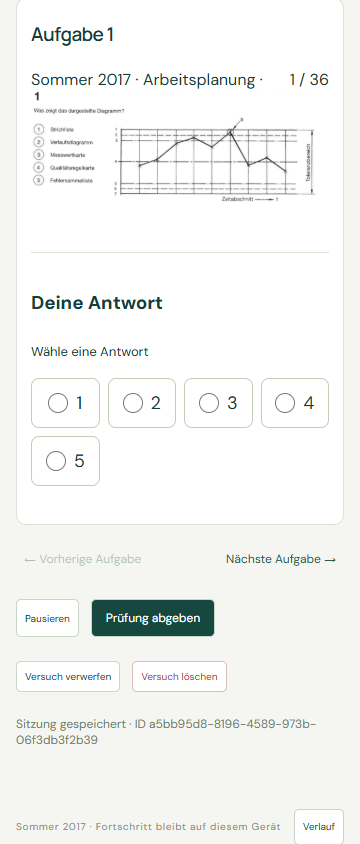
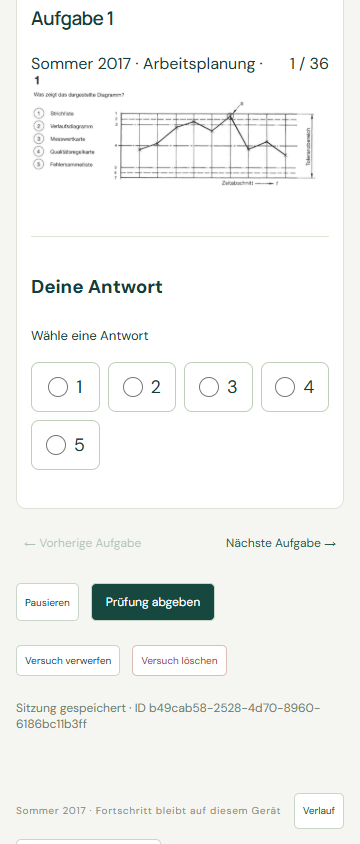
Wait for all selected exam sources before starting module tests

diff --git a/src/learning/LearningApp.tsx b/src/learning/LearningApp.tsx
@@ -106,7 +106,7 @@ export default function LearningApp(){
  const unfinished=filterHistory(testSessions).filter(s=>['active','paused'].includes(s.status)).slice(0,3);
  const recent=dashboardHistory(testSessions.filter(s=>isEligibleForAnalysis(s)),5-unfinished.length);
  const embeddedHistory=(type?:TestType,examId?:string)=><HistoryView key={(type??'all')+'/'+(examId??'all')} sessions={testSessions} repository={repository} disabled={busy} initialType={type} initialExam={examId} onOpen={openTest} onUpdated={updatedTest} onDeleted={deletedTest} onBusy={setLifecycleBusy}/>;
- const cards=(kind:'dashboard'|'learn'|'original'|'module',examId?:string)=>(kind==='module'?moduleCards:MODULES.filter(m=>!examId||m.examId===examId)).map(m=>{const b=bundles[moduleKey(m)];const p=moduleProgress(b?.exam.questions??[],attempts,sessions);const type=kind==='original'?'original':'module';const canStart=kind!=='module'||moduleSupportsSources(sourceExams,MODULES.filter(c=>c.slug===m.slug).map(c=>c.examId));const existing=testSessions.find(s=>s.module===m.slug&&(kind==='module'||s.exam===m.examId)&&s.test_type===type&&['active','paused'].includes(s.status));return <section className="exam-card" key={moduleKey(m)}><span className="eyebrow">{kind==='module'?sourceLabel(sourceExams,filteredModules.filter(c=>c.slug===m.slug).length,examLabel):examLabel(m.examId)}</span><h2>{m.title}</h2>{b?<>{kind==='dashboard'||kind==='learn'?<><p>{p.practiced}/{b.exam.questions.length} frei geübt · {p.attempts} Lernversuche</p><p className="hint">Letzte Lernaktivität: {p.lastActivity?new Date(p.lastActivity).toLocaleString('de-DE'):'Noch nicht begonnen'}</p>{kind==='dashboard'?<button className="primary" disabled={busy||!personalLoaded} onClick={()=>navigate('study',p.resumeNumber,m.slug,m.examId)}>Lernen fortsetzen · {m.title}</button>:<div className="part-cards">{moduleParts(m,b.exam.questions).map(part=><button key={part.id} disabled={busy||!personalLoaded} onClick={()=>navigate('study',part.questions[0].question_number,m.slug,m.examId)}><strong>{part.title}</strong><span>{part.questions.length} {part.label}</span><small>Frei auswählen und üben →</small></button>)}</div>}</>:<><p>{kind==='original'?`${b.exam.questions.length} Aufgaben in Originalreihenfolge · ${m.parts.map(p=>p.title).join(" + ")} · ${m.durationMinutes===null?'Prüfungszeit noch nicht bestätigt':m.durationMinutes+' Minuten'}`:`Neue gemischte Auswahl aus ${m.parts.map(p=>p.title).join(' und ')}. Eigene Sitzung ohne vorausgefüllte Antworten.`}</p>{existing&&<p>Eine {existing.status==='paused'?'pausierte':'laufende'} Sitzung ist gespeichert. Fortsetzen behält deren ursprüngliche Aufgaben bei.</p>}{!canStart&&<p className="hint">Dieses Modul ist nicht in allen ausgewählten Jahrgängen verfügbar. Bitte die Jahrgangsauswahl anpassen.</p>}<div className="session-launch">{existing&&<button className="primary" disabled={busy||!personalLoaded} onClick={()=>openTest(existing)}>Fortsetzen · {m.title}</button>}{kind==='original'?<button className={existing?'outline':'primary'} disabled={busy||!personalLoaded} onClick={()=>void startTest(moduleKey(m),'original')}>Neue Originalprüfung · {m.title}</button>:<><button className="outline" disabled={busy||!personalLoaded||!canStart} onClick={()=>void startTest(moduleKey(m),'module','kurz')}>Kurz starten · 6 MC + 2 U</button><button className="outline" disabled={busy||!personalLoaded||!canStart} onClick={()=>void startTest(moduleKey(m),'module','standard')}>Standard starten · 12 MC + 4 U</button></>}</div></>}</>:<p role={moduleErrors[moduleKey(m)]?'alert':'status'}>{moduleErrors[moduleKey(m)]??'Modul wird geladen…'}</p>}</section>;});
+ const cards=(kind:'dashboard'|'learn'|'original'|'module',examId?:string)=>(kind==='module'?moduleCards:MODULES.filter(m=>!examId||m.examId===examId)).map(m=>{const b=bundles[moduleKey(m)];const p=moduleProgress(b?.exam.questions??[],attempts,sessions);const type=kind==='original'?'original':'module';const sourcesCompatible=moduleSupportsSources(sourceExams,MODULES.filter(c=>c.slug===m.slug).map(c=>c.examId));const poolReady=MODULES.filter(c=>c.slug===m.slug&&includesSource(sourceExams,c.examId)).every(c=>!!bundles[moduleKey(c)]);const canStart=kind!=='module'||sourcesCompatible&&poolReady;const existing=testSessions.find(s=>s.module===m.slug&&(kind==='module'||s.exam===m.examId)&&s.test_type===type&&['active','paused'].includes(s.status));return <section className="exam-card" key={moduleKey(m)}><span className="eyebrow">{kind==='module'?sourceLabel(sourceExams,filteredModules.filter(c=>c.slug===m.slug).length,examLabel):examLabel(m.examId)}</span><h2>{m.title}</h2>{b?<>{kind==='dashboard'||kind==='learn'?<><p>{p.practiced}/{b.exam.questions.length} frei geübt · {p.attempts} Lernversuche</p><p className="hint">Letzte Lernaktivität: {p.lastActivity?new Date(p.lastActivity).toLocaleString('de-DE'):'Noch nicht begonnen'}</p>{kind==='dashboard'?<button className="primary" disabled={busy||!personalLoaded} onClick={()=>navigate('study',p.resumeNumber,m.slug,m.examId)}>Lernen fortsetzen · {m.title}</button>:<div className="part-cards">{moduleParts(m,b.exam.questions).map(part=><button key={part.id} disabled={busy||!personalLoaded} onClick={()=>navigate('study',part.questions[0].question_number,m.slug,m.examId)}><strong>{part.title}</strong><span>{part.questions.length} {part.label}</span><small>Frei auswählen und üben →</small></button>)}</div>}</>:<><p>{kind==='original'?`${b.exam.questions.length} Aufgaben in Originalreihenfolge · ${m.parts.map(p=>p.title).join(" + ")} · ${m.durationMinutes===null?'Prüfungszeit noch nicht bestätigt':m.durationMinutes+' Minuten'}`:`Neue gemischte Auswahl aus ${m.parts.map(p=>p.title).join(' und ')}. Eigene Sitzung ohne vorausgefüllte Antworten.`}</p>{existing&&<p>Eine {existing.status==='paused'?'pausierte':'laufende'} Sitzung ist gespeichert. Fortsetzen behält deren ursprüngliche Aufgaben bei.</p>}{kind==='module'&&!sourcesCompatible&&<p className="hint">Dieses Modul ist nicht in allen ausgewählten Jahrgängen verfügbar. Bitte die Jahrgangsauswahl anpassen.</p>}{kind==='module'&&sourcesCompatible&&!poolReady&&<p className="hint" role="status">Die ausgewählten Prüfungsquellen werden noch geladen…</p>}<div className="session-launch">{existing&&<button className="primary" disabled={busy||!personalLoaded} onClick={()=>openTest(existing)}>Fortsetzen · {m.title}</button>}{kind==='original'?<button className={existing?'outline':'primary'} disabled={busy||!personalLoaded} onClick={()=>void startTest(moduleKey(m),'original')}>Neue Originalprüfung · {m.title}</button>:<><button className="outline" disabled={busy||!personalLoaded||!canStart} onClick={()=>void startTest(moduleKey(m),'module','kurz')}>Kurz starten · 6 MC + 2 U</button><button className="outline" disabled={busy||!personalLoaded||!canStart} onClick={()=>void startTest(moduleKey(m),'module','standard')}>Standard starten · 12 MC + 4 U</button></>}</div></>}</>:<p role={moduleErrors[moduleKey(m)]?'alert':'status'}>{moduleErrors[moduleKey(m)]??'Modul wird geladen…'}</p>}</section>;});
  const seasonCards=(kind:'dashboard'|'learn'|'original')=>EXAM_SESSIONS.filter(season=>season.id===locationState.examId).map(season=><section className="exam-season" key={season.id} aria-label={season.label}><h2>{season.label}</h2><div className="module-cards">{cards(kind,season.id)}{Object.entries(MODULE_TITLES).filter(([slug])=>!findModule(season.id,slug)).map(([slug,title])=><section className="exam-card" key={slug}><h3>{title}</h3><p>Noch nicht verfügbar</p></section>)}</div></section>);
  const yearTabs=<nav className="exam-year-tabs" aria-label="Prüfungsjahr filtern">{EXAM_SESSIONS.filter(season=>MODULES.some(m=>m.examId===season.id)).map(season=><button key={season.id} disabled={busy} aria-current={locationState.examId===season.id?'true':undefined} onClick={()=>switchExam(season.id)}>{season.label}</button>)}</nav>;
  return <div className="learning-root"><div className="learning-topbar"><button className="learning-brand" disabled={busy} onClick={()=>navigate('start')}>AP2 <span>lernen</span></button><nav aria-label="Hauptnavigation">{([{view:'start',label:'Start'},{view:'learn',label:'Lernen'},{view:'exams',label:'Originalprüfungen'},{view:'tests',label:'Tests'}] as {view:View;label:string}[]).map(item=><button key={item.view} disabled={busy} onClick={()=>navigate(item.view)} aria-current={locationState.view===item.view?'page':undefined}>{item.label}</button>)}</nav>{!['tests','history','settings'].includes(locationState.view)&&<label className="exam-year-select">Prüfungsjahr<select aria-label="Prüfungsjahr" disabled={busy} value={locationState.examId} onChange={e=>switchExam(e.target.value)}>{EXAM_SESSIONS.filter(season=>MODULES.some(m=>m.examId===season.id)).map(season=><option key={season.id} value={season.id}>{season.label}</option>)}</select></label>}</div>

diff --git a/docs/PHASE_2G_REPORT.md b/docs/PHASE_2G_REPORT.md
@@ -37,3 +37,5 @@ All production question data, crops, answers, source registry and ingestion mani
 ## Stop gate
 
 No Firebase project/Web config exists. The application remains usable locally and displays not configured. Complete the Console steps in FIREBASE_SETUP.md, provide only public Firebase Web config, then request Windows ↔ Android/iPad real-account acceptance. No new years, taxonomy, mastery, adaptive planning or AI question generation are included.
+
+Production smoke exposed a slow-source race: the first loaded module bundle enabled cross-year launch before the other selected year loaded. Launch now waits for every selected source; a controlled delayed-response browser regression verifies disabled-then-ready behavior.
